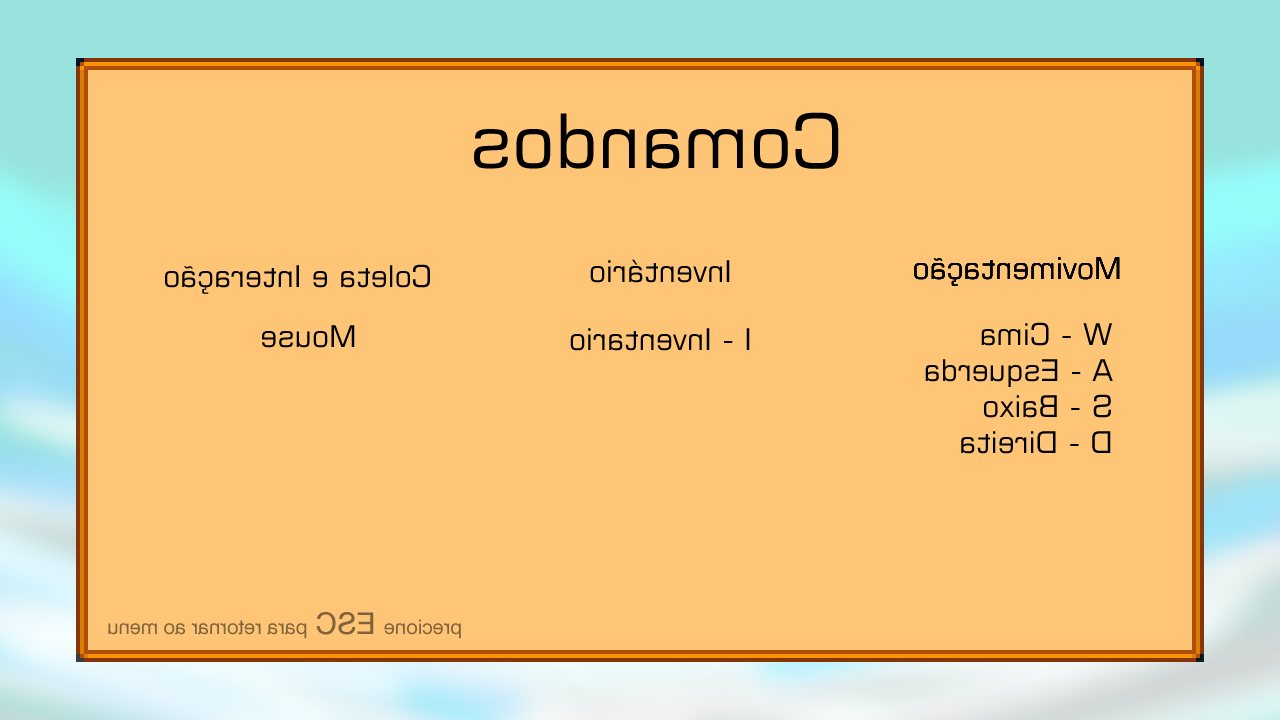
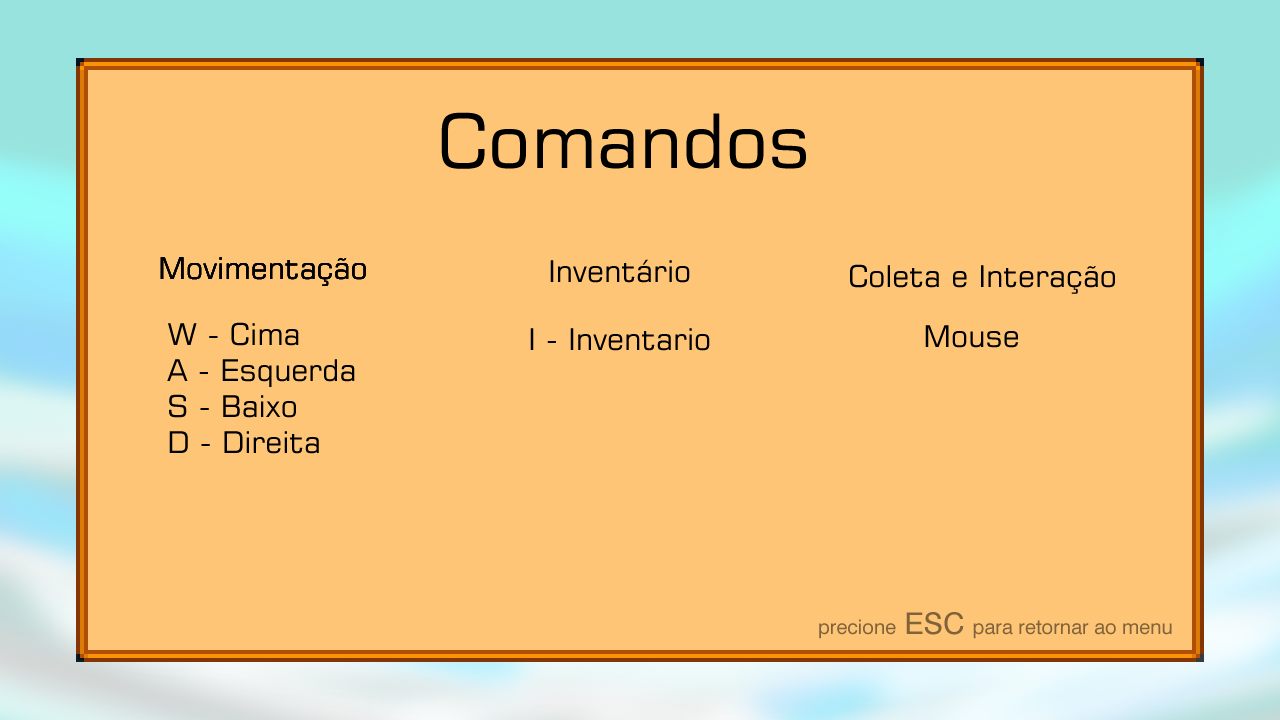
Alteração exibição de menus e comandos

diff --git a/Flauta/Flauta/Origem.c b/Flauta/Flauta/Origem.c
@@ -89,7 +89,20 @@ int main(void) {
 	paginaPrincipal.personagemPrincipal = &personagemPrincipal;
 	paginaCombinacao.personagemPrincipal = &personagemPrincipal;
 
-	menu();
+	paginaComandos.background.imagem = al_load_bitmap("Utils/Imagens/Comandos.png");
+	paginaComandos.posicaoBackGroud.posicaoX = 0;
+	paginaComandos.posicaoBackGroud.tamanhoX = 1280;
+	paginaComandos.posicaoBackGroud.posicaoY = 0;
+	paginaComandos.posicaoBackGroud.tamanhoY = 720;
+	paginaComandos.aberta = false;
+
+	paginaMenu.background.imagem = al_load_bitmap("Utils/Imagens/placeholder.png");
+	paginaMenu.posicaoBackGroud.posicaoX = 0;
+	paginaMenu.posicaoBackGroud.tamanhoX = 1280;
+	paginaMenu.posicaoBackGroud.posicaoY = 0;
+	paginaMenu.posicaoBackGroud.tamanhoY = 720;
+	paginaMenu.backgroundCasa.imagem = al_load_bitmap("Utils/Imagens/Lore.png");
+	paginaMenu.aberta = true;
 
 	Iniciar:
 	startGame();
@@ -114,10 +127,19 @@ int main(void) {
 				else
 					abrirPaginaComposicao();
 			}
+			else if (evento.keyboard.keycode == ALLEGRO_KEY_C)
+				paginaComandos.aberta = !(paginaComandos.aberta);
 		}
+		else if (evento.type == ALLEGRO_EVENT_DISPLAY_CLOSE)
+			paginaPrincipal.aberta = false;
 		
 		//Execucao de dislay
-		if (paginaCombinacao.aberta)
+		if (paginaMenu.aberta)
+			menu(evento);
+		else if (paginaComandos.aberta) {			
+			abrirPaginaComandos(evento);
+		}
+		else if (paginaCombinacao.aberta)
 			executarPaginaCombinacao(&paginaCombinacao, personagemPrincipal.inventario);
 		else if (paginaPrincipal.aberta) {
 			int retorno = gerenciarPosicaoPersonagem(&evento);
@@ -257,78 +279,64 @@ void registrarEventos(void) {
 	al_register_event_source(eventos, al_get_mouse_event_source());
 }
 
-void menu() {
-	paginaMenu.background.imagem = al_load_bitmap("Utils/Imagens/placeholder.png");
-	paginaMenu.posicaoBackGroud.posicaoX = 0;
-	paginaMenu.posicaoBackGroud.tamanhoX = 1280;
-	paginaMenu.posicaoBackGroud.posicaoY = 0;
-	paginaMenu.posicaoBackGroud.tamanhoY = 720;
-	paginaMenu.backgroundCasa.imagem = al_load_bitmap("Utils/Imagens/Lore.png");
-	paginaMenu.aberta = true;
-	paginaPrincipal.aberta = false;
+void menu(ALLEGRO_EVENT evento) {
+	desenharImagem(paginaMenu.background, paginaMenu.posicaoBackGroud);
 
-	while (paginaMenu.aberta) {
-		ALLEGRO_EVENT evento;
-		al_wait_for_event(eventos, &evento);
+	if (evento.type == ALLEGRO_EVENT_KEY_DOWN) {
+		if (evento.keyboard.keycode == ALLEGRO_KEY_SPACE) {
+			paginaMenu.aberta = false;
+		
+			desenharImagem(paginaMenu.backgroundCasa, paginaMenu.posicaoBackGroud);
+			al_flip_display();
+			al_rest(1);
 
-		desenharImagem(paginaMenu.background, paginaMenu.posicaoBackGroud);
-		al_flip_display();
+			abrirPaginaComandos(evento);
+			al_flip_display();
+			al_rest(1);
 
-		if (evento.type == ALLEGRO_EVENT_KEY_DOWN) {
-			if (evento.keyboard.keycode == ALLEGRO_KEY_SPACE) {
-				paginaMenu.aberta = false;
-				al_clear_to_color(al_map_rgb(0, 0, 0));
-				al_flip_display();
-				desenharImagem(paginaMenu.backgroundCasa, paginaMenu.posicaoBackGroud);
-				al_flip_display();
-				al_rest(1);
-				paginaPrincipal.aberta = true;
-			}
-		}
-		if (evento.type == ALLEGRO_EVENT_KEY_DOWN) {
-			if (evento.keyboard.keycode == ALLEGRO_KEY_C) {
-				paginaMenu.aberta = false;
-				al_clear_to_color(al_map_rgb(0, 0, 0));
-				al_flip_display();
-				al_rest(1);
-				abrirPaginaComandos();
-			}
-		}
-		if (evento.type == ALLEGRO_EVENT_KEY_DOWN) {
-			if (evento.keyboard.keycode == ALLEGRO_KEY_ESCAPE) {
-				return 0;
-			}
+			paginaPrincipal.aberta = true;
 		}
 	}
+
+	al_flip_display();
+	al_clear_to_color(al_map_rgb(0, 0, 0));
+	/*if (evento.type == ALLEGRO_EVENT_KEY_DOWN) {
+		if (evento.keyboard.keycode == ALLEGRO_KEY_C) {
+			paginaMenu.aberta = false;
+			al_clear_to_color(al_map_rgb(0, 0, 0));
+			al_flip_display();
+			al_rest(2);
+			abrirPaginaComandos(evento);
+		}
+	}
+	if (evento.type == ALLEGRO_EVENT_KEY_DOWN) {
+		if (evento.keyboard.keycode == ALLEGRO_KEY_ESCAPE) {
+			return 0;
+		}
+	}*/
 }
 
-void abrirPaginaComandos() {
-	paginaComandos.background.imagem = al_load_bitmap("Utils/Imagens/Comandos.png");
-	paginaComandos.posicaoBackGroud.posicaoX = 0;
-	paginaComandos.posicaoBackGroud.tamanhoX = 1280;
-	paginaComandos.posicaoBackGroud.posicaoY = 0;
-	paginaComandos.posicaoBackGroud.tamanhoY = 720;
-	paginaComandos.aberta = true;
+void abrirPaginaComandos(ALLEGRO_EVENT evento) {
 
-	while (paginaComandos.aberta) {
-		ALLEGRO_EVENT evento;
-		al_wait_for_event(eventos, &evento);
-
-		desenharImagem(paginaComandos.background, paginaComandos.posicaoBackGroud);
-		al_flip_display();
-
-		if (evento.type == ALLEGRO_EVENT_KEY_DOWN) {
-			if (evento.keyboard.keycode == ALLEGRO_KEY_ESCAPE) {
-				paginaComandos.aberta = false;
-				al_clear_to_color(al_map_rgb(0, 0, 0));
-				al_flip_display();
-				al_rest(1);
-				menu();
-
-			}
+	al_draw_bitmap(
+		paginaComandos.background.imagem,
+		cameraPosition[0],
+		cameraPosition[1],
+		paginaComandos.posicaoBackGroud.tamanhoX,
+		paginaComandos.posicaoBackGroud.tamanhoY,
+		0
+	);
+	al_flip_display();
+	//al_clear_to_color(al_map_rgb(0, 0, 0));
+	/*if (evento.type == ALLEGRO_EVENT_KEY_DOWN) {
+		if (evento.keyboard.keycode == ALLEGRO_KEY_ESCAPE) {
+			paginaComandos.aberta = false;
+			al_clear_to_color(al_map_rgb(0, 0, 0));
+			al_flip_display();
+			al_rest(1);
+			paginaMenu.aberta = true;
 		}
-	}
-
+	}*/
 }
 
 void abrirPaginaComposicao() {
@@ -528,9 +536,6 @@ int gerenciarPosicaoPersonagem(ALLEGRO_EVENT* evento) {
 				}
 			}
 		}
-	}
-	else if (event.type == ALLEGRO_EVENT_DISPLAY_CLOSE) {
-		paginaPrincipal.aberta = false;
 	}
 
 	return NULL;

diff --git a/Flauta/Flauta/Origem.h b/Flauta/Flauta/Origem.h
@@ -30,8 +30,8 @@ int main(void);
 Personagem configurarPersonagemPrincipal(void);
 void configuracaoInicial(void);
 void registrarEventos(void);
-void menu();
-void abrirPaginaComandos();
+void menu(ALLEGRO_EVENT evento);
+void abrirPaginaComandos(ALLEGRO_EVENT evento);
 void abrirPaginaComposicao();
 int gerenciarPosicaoPersonagem(ALLEGRO_EVENT* evento);
 void cameraUpdate(float* cameraPosition, Posicao* posicaoBase);
